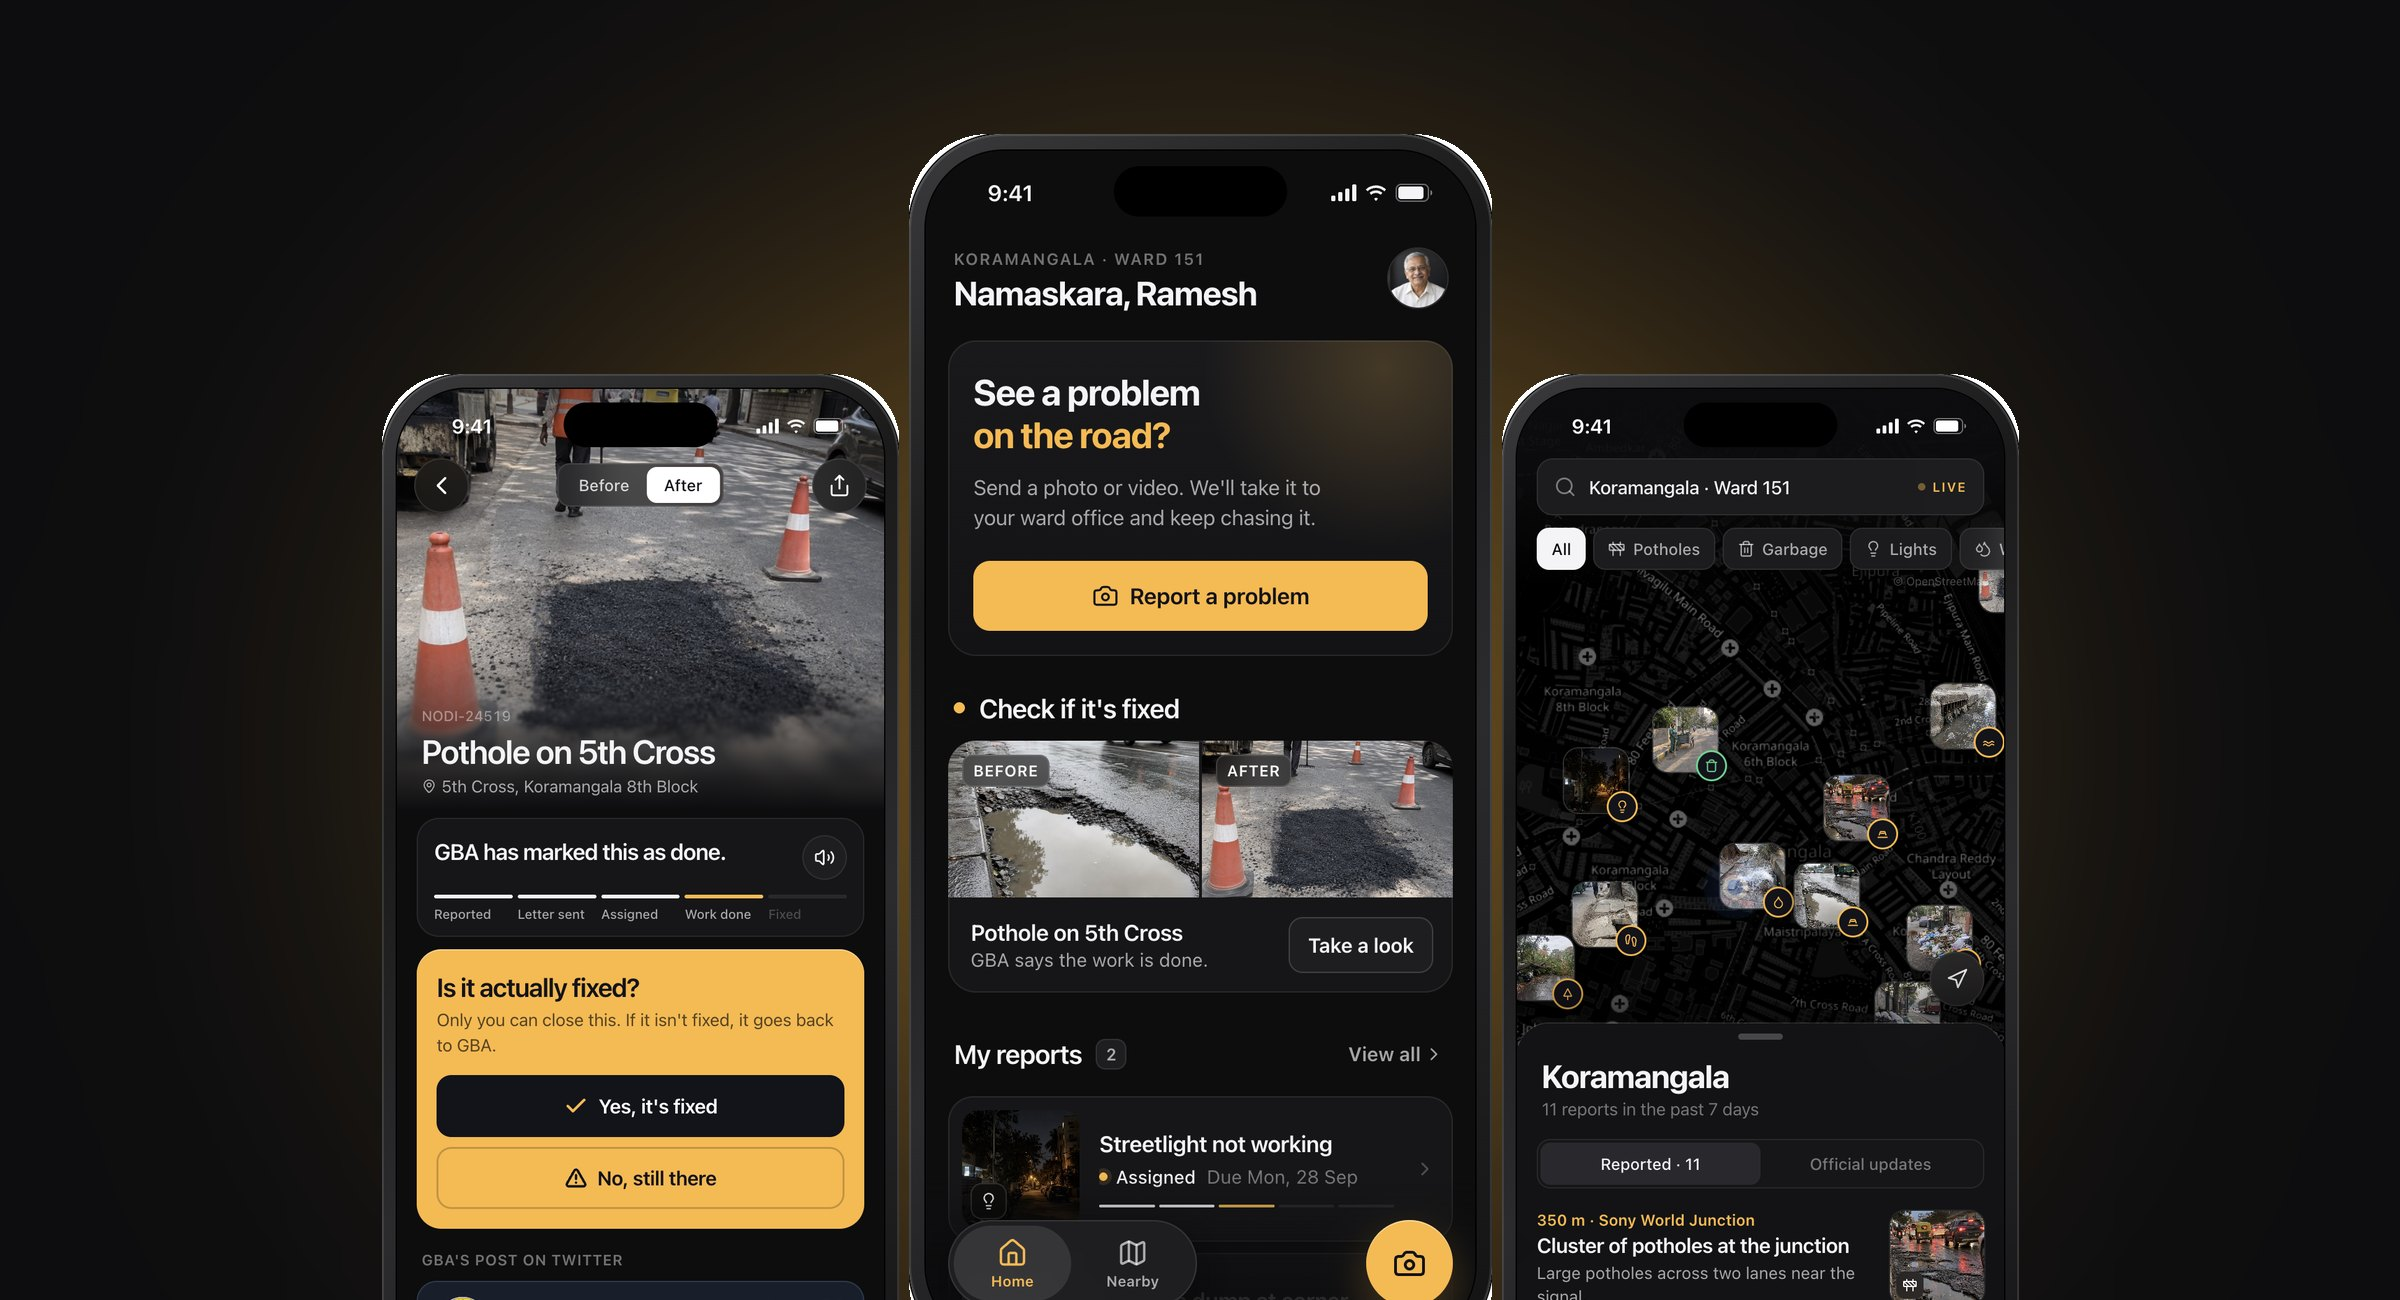
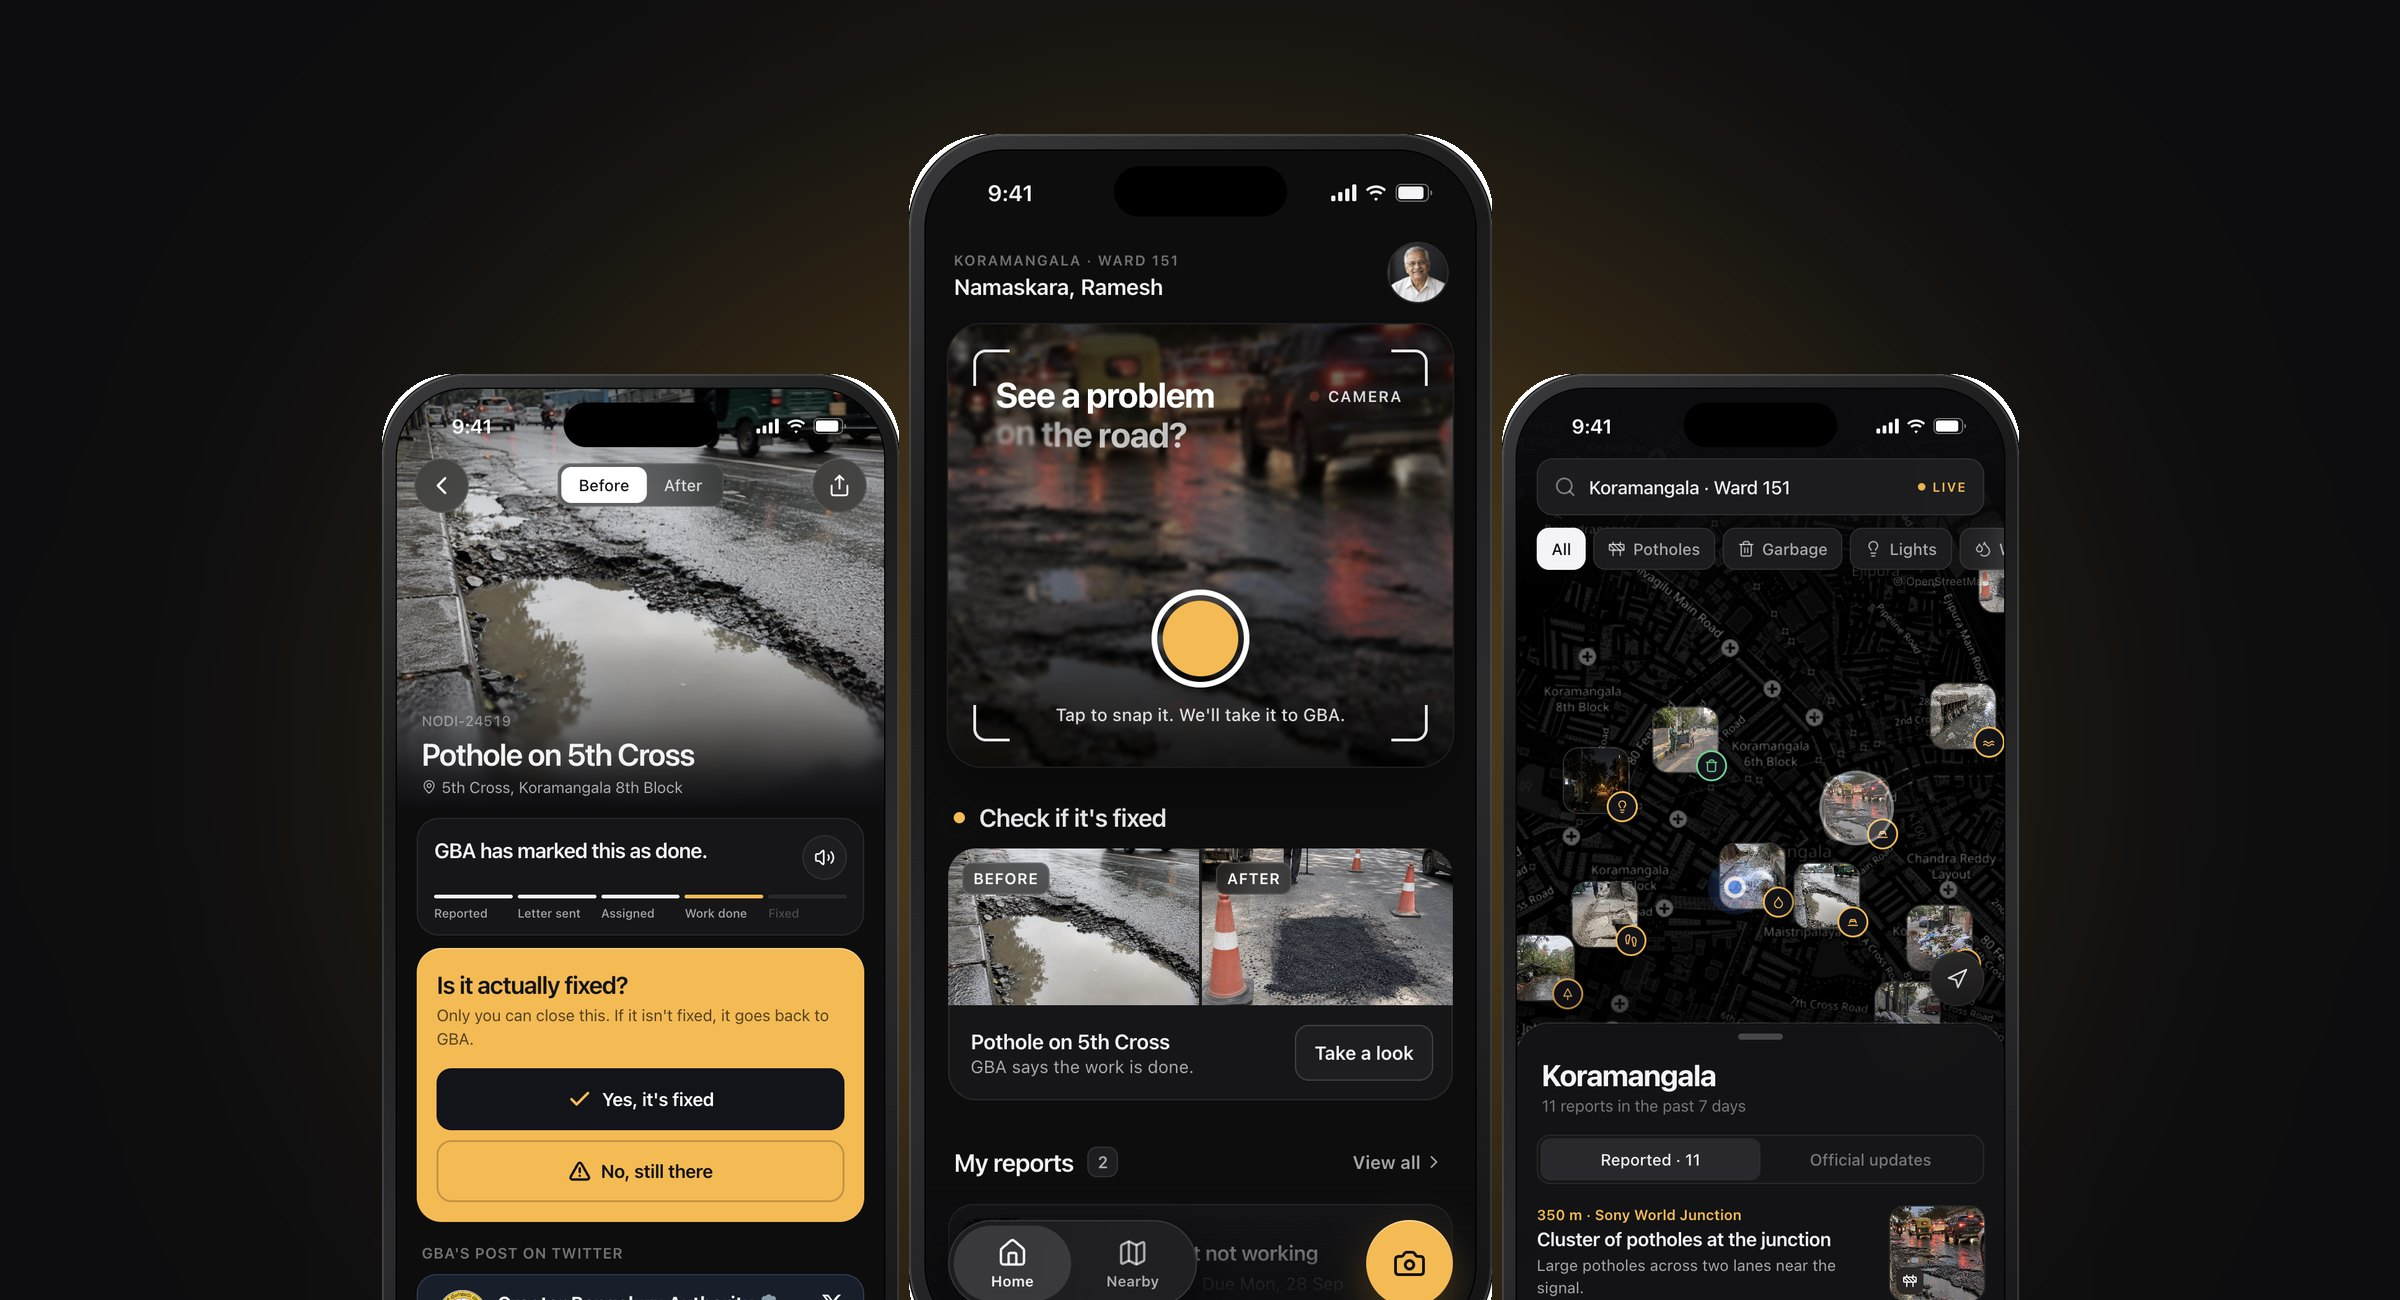
Home: letter-by-letter fade for the impact line; demo clip taps the new camera hero; case study cover and copy updated for the camera hero

diff --git a/components/Home.tsx b/components/Home.tsx
@@ -3,18 +3,34 @@ import { ChevronRight, ShieldCheck } from "lucide-react";
 import { Report, CATEGORIES, Ward } from "@/lib/data";
 import { Lang, tr } from "@/lib/i18n";
 import { useEffect, useState } from "react";
-import { CatIcon, StageBar, StatusDot, StatusBar, FlipText } from "./ui";
+import { CatIcon, StageBar, StatusDot, StatusBar } from "./ui";
 
 const FLIP_EN = ["on the road?", "with streetlights?", "with water?", "on footpaths?"];
 const HERO_IMGS = ["/img/pothole2.jpg", "/img/streetlight.jpg", "/img/water.jpg", "/img/footpath.jpg"];
 
+function useLetterCycle(count: number, hold = 2600) {
+  const [idx, setIdx] = useState(0);
+  const [phase, setPhase] = useState<"in" | "out">("in");
+  useEffect(() => {
+    let alive = true; const timers: ReturnType<typeof setTimeout>[] = [];
+    const cycle = () => {
+      timers.push(setTimeout(() => { if (!alive) return; setPhase("out");
+        timers.push(setTimeout(() => { if (!alive) return; setIdx((i) => (i + 1) % count); setPhase("in"); cycle(); }, 560));
+      }, hold));
+    };
+    cycle();
+    return () => { alive = false; timers.forEach(clearTimeout); };
+  }, [count, hold]);
+  return { idx, phase };
+}
+
 /** Splits into graphemes (safe for Kannada) and fades each one in or out with a stagger. */
-function Letters({ text, phase }: { text: string; phase: "in" | "out" }) {
+function Letters({ text, phase, className = "" }: { text: string; phase: "in" | "out"; className?: string }) {
   const seg = typeof Intl !== "undefined" && "Segmenter" in Intl
     ? Array.from(new (Intl as unknown as { Segmenter: new (l: string, o: { granularity: string }) => { segment: (s: string) => Iterable<{ segment: string }> } }).Segmenter("kn", { granularity: "grapheme" }).segment(text), (x) => x.segment)
     : Array.from(text);
   return (
-    <span className={"letters " + phase} key={text + phase} aria-label={text}>
+    <span className={"letters " + phase + " " + className} key={text + phase} aria-label={text}>
       {seg.map((ch, i) => <span key={i} aria-hidden style={{ animationDelay: `${i * 22}ms` }}>{ch === " " ? "\u00a0" : ch}</span>)}
     </span>
   );
@@ -29,18 +45,8 @@ export default function Home({ reports, lang, ward, onProfile, onReport, onOpen 
 }) {
   const t = tr(lang);
   const kn = lang === "kn";
-  const [idx, setIdx] = useState(0);
-  const [phase, setPhase] = useState<"in" | "out">("in");
-  useEffect(() => {
-    let alive = true; const timers: ReturnType<typeof setTimeout>[] = [];
-    const cycle = () => {
-      timers.push(setTimeout(() => { if (!alive) return; setPhase("out");
-        timers.push(setTimeout(() => { if (!alive) return; setIdx((i) => (i + 1) % FLIP_EN.length); setPhase("in"); cycle(); }, 520));
-      }, 2600));
-    };
-    cycle();
-    return () => { alive = false; timers.forEach(clearTimeout); };
-  }, []);
+  const { idx, phase } = useLetterCycle(FLIP_EN.length, 2600);
+  const impact = useLetterCycle(IMPACT_EN.length, 2800);
   const needsCheck = reports.filter((r) => r.stage === 3 && !r.reopened);
   const others = reports.filter((r) => !(r.stage === 3 && !r.reopened));
   return (
@@ -122,7 +128,7 @@ export default function Home({ reports, lang, ward, onProfile, onReport, onOpen 
 
         <footer className="manifesto">
           <h2 className="mf-big">{kn ? <>ಬೆಂಗಳೂರನ್ನು<br />ಮತ್ತೆ<br />ಅದ್ಭುತಗೊಳಿಸೋಣ.</> : <>Let&apos;s make<br />Bengaluru<br />great again.</>}</h2>
-          <p className="mf-sub">{kn ? "2026 ರಲ್ಲಿ ಆರಂಭವಾದಾಗಿನಿಂದ, " : "Since launch in 2026, "}<FlipText items={kn ? IMPACT_KN : IMPACT_EN} interval={2600} className="mf-flip" /></p>
+          <p className="mf-sub">{kn ? "2026 ರಲ್ಲಿ ಆರಂಭವಾದಾಗಿನಿಂದ, " : "Since launch in 2026, "}<Letters text={(kn ? IMPACT_KN : IMPACT_EN)[impact.idx]} phase={impact.phase} className="mf-flip" /></p>
         </footer>
         <div style={{ height: 120 }} />
       </div>

diff --git a/app/case-study/page.tsx b/app/case-study/page.tsx
@@ -109,8 +109,9 @@ export default function CaseStudy() {
             <h2 className={s.chapter}>How Nodi works</h2>
             <div className={s.split}>
               <div>
-                <h3>1. Report a problem with one button</h3>
-                <p>The home screen has one job. You tap Report a problem, the camera opens, and you take a photo or video.</p>
+                <h3>1. The home screen is the camera</h3>
+                <p>The top of the home screen looks like a camera viewfinder. The prompt changes letter by letter, from &quot;See a problem on the road?&quot; to streetlights, water and footpaths, and the photo behind it changes with it. So people know what counts as a problem before they tap.</p>
+                <p>Tap anywhere on it and the camera opens. The yellow shutter is the only yellow on the page, so it&apos;s clear what to press.</p>
                 <p>Nodi fills in the rest: the type of problem, the exact location and the ward. You can add more photos or videos with the + button, and write or speak a note in any language.</p>
                 <p>When you send it, the Nodi team writes a formal letter to the ward office on your behalf. You can open and read the letter from the app.</p>
               </div>
@@ -142,7 +143,7 @@ export default function CaseStudy() {
               <li><b>A formal letter for every report.</b> It turns a tap into an official record with a reference number.</li>
               <li><b>GBA&apos;s own posts as proof.</b> The work is shown the way GBA announced it, not the way we describe it.</li>
               <li><b>Only the resident closes a complaint.</b> This fixes the biggest complaint about Sahaaya.</li>
-              <li><b>A running count on the home screen.</b> &quot;Since launch in 2026, 21,780 potholes filled.&quot; These numbers are placeholders for the prototype. They&apos;re a hypothesis that visible results bring people back.</li>
+              <li><b>A running count on the home screen.</b> &quot;Since launch in 2026, 21,780 potholes filled&quot;, cycling through streetlights, garbage and water leaks. These numbers are placeholders for the prototype. They&apos;re a hypothesis that visible results bring people back.</li>
             </ul>
           </section>
 

diff --git a/app/globals.css b/app/globals.css
@@ -1111,3 +1111,4 @@ html:has(.demo), body:has(.demo) { background: transparent !important; overflow:
 .nodi:has(.home) .fab, .nodi.light:has(.home) .fab { background: var(--yellow); color: var(--ink); box-shadow: inset 0 1px 0 rgba(255,255,255,.4), 0 12px 30px rgba(255,183,57,.28), 0 4px 10px rgba(0,0,0,.4); }
 .vfh-q { top: 36px; right: 110px; }
 .vfh-live { top: 45px; right: 36px; }
+.letters.mf-flip { color: var(--t2); white-space: normal; }

diff --git a/app/demo/[flow]/DemoPlayer.tsx b/app/demo/[flow]/DemoPlayer.tsx
@@ -12,7 +12,8 @@ type Step =
 const FLOWS: Record<string, Step[]> = {
   report: [
     { wait: 1400 },
-    { tap: ".hero .primary", wait: 1300 },
+    { wait: 2200 },
+    { tap: ".vfhero", wait: 1300 },
     { tap: ".shutter", wait: 2300 },
     { tap: ".att-add", wait: 900 },
     { tap: ".addopts button", text: "Record a video", wait: 900 },

diff --git a/CASE_STUDY.md b/CASE_STUDY.md
@@ -40,7 +40,7 @@ Verbatim Play Store reviews:
 
 ## How Nodi works
 
-**1. Report a problem with one button.** Tap Report a problem, take a photo or video. Nodi fills in the type, location and ward. Add more with +, and write or speak a note. The Nodi team sends a formal letter to the ward office on your behalf.
+**1. The home screen is the camera.** The top of Home looks like a viewfinder. The prompt changes letter by letter (road, streetlights, water, footpaths) and the photo behind it changes too. Tap anywhere to open the camera and take a photo or video. Nodi fills in the type, location and ward. Add more with +, and write or speak a note. The Nodi team sends a formal letter to the ward office on your behalf.
 
 **2. See exactly where your complaint is.** The current step, the engineer assigned, a timeline, and your photos and videos. GBA's Twitter post appears inside the complaint; open it on Twitter to reply. Only you can close it. Tap No and it goes back to GBA with a new deadline.
 
@@ -51,7 +51,7 @@ Verbatim Play Store reviews:
 - A formal letter for every report.
 - GBA's own posts as proof.
 - Only the resident closes a complaint.
-- A running count on the home screen: "Since launch in 2026, 21,780 potholes filled." These numbers are placeholders, and a hypothesis that visible results bring people back.
+- A running count on the home screen: "Since launch in 2026, 21,780 potholes filled", cycling through streetlights, garbage and water leaks. These numbers are placeholders, and a hypothesis that visible results bring people back.
 
 ## Nearby
 
